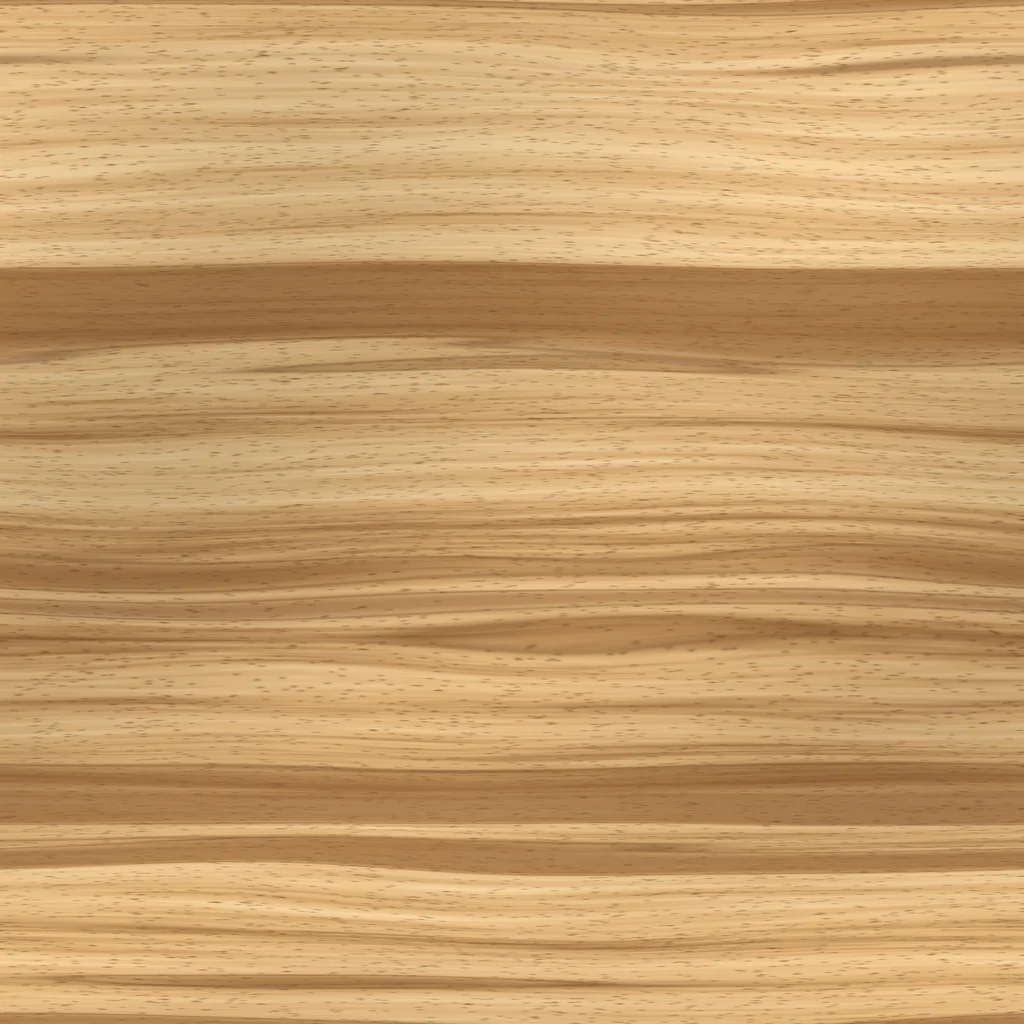
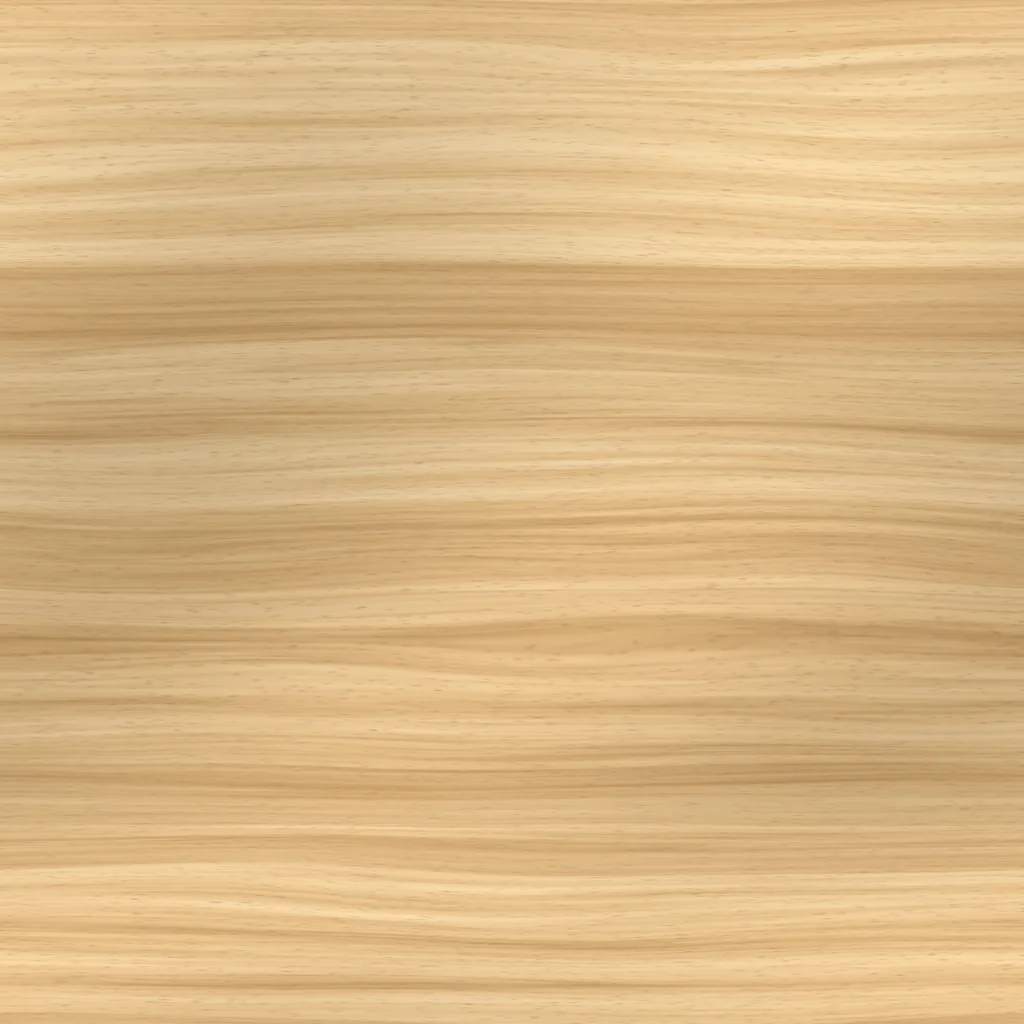
Ludo 2D wood board: lighter wood (no deep browns), a mid-teak frame, softer lines
Claude-Session: https://claude.ai/code/session_019p8B6UWR1udoEs1Nsr5TaD

diff --git a/ludo/board2d.js b/ludo/board2d.js
@@ -68,7 +68,7 @@
   const WOOD = {};
   function woodTex(kind) {
     if (WOOD[kind]) return WOOD[kind];
-    const url = BASE + 'img/wood-' + kind + '.webp?v=1';
+    const url = BASE + 'img/wood-' + kind + '.webp?v=2';
     if (!WOOD['_' + kind] && typeof Image !== 'undefined') {
       WOOD['_' + kind] = 1; const im = new Image();
       im.onload = () => { try { const c = document.createElement('canvas'); c.width = im.naturalWidth; c.height = im.naturalHeight; c.getContext('2d').drawImage(im, 0, 0); WOOD[kind] = c.toDataURL('image/jpeg', .9); } catch (e) {} };
@@ -80,7 +80,7 @@
   /* ---------- designs ---------- */
   const DESIGN = {
     classic: { bg: '#fbf7ec', line: '#3b3326', frame: '#2a2218' },
-    wood: { bg: '#e0b47a', line: '#4f3015', frame: '#5a3313' },
+    wood: { bg: '#e0b47a', line: '#6b4524', frame: '#9a6a3e' },
   };
   function drawLudo(dz) {
     const D = DESIGN[dz] || DESIGN.classic, C = COL.ludo, o = [];
@@ -91,7 +91,7 @@
       o.push(`<image href="${fr}" x="-.3" y="-.3" width="15.6" height="15.6" preserveAspectRatio="none" clip-path="url(#ldFrC)"/>`);
       o.push(`<rect x="-.3" y="-.3" width="15.6" height="15.6" rx=".5" fill="none" stroke="rgba(0,0,0,.35)" stroke-width=".06"/>`);
       o.push(`<image href="${bd}" x="0" y="0" width="15" height="15" preserveAspectRatio="none"/>`);
-      o.push(`<rect x="0" y="0" width="15" height="15" fill="none" stroke="rgba(30,14,4,.55)" stroke-width=".05"/>`);
+      o.push(`<rect x="0" y="0" width="15" height="15" fill="none" stroke="rgba(60,34,14,.4)" stroke-width=".05"/>`);
     } else {
       o.push(`<rect x="-.3" y="-.3" width="15.6" height="15.6" rx=".5" fill="${D.frame}"/>`);
       o.push(`<rect x="0" y="0" width="15" height="15" fill="${D.bg}"/>`);
@@ -115,7 +115,7 @@
       const start = i % 13 === 0 ? i / 13 : -1;
       const fill = start >= 0 ? C[start][0] : bg;
       o.push(`<rect x="${x}" y="${y}" width="1" height="1" fill="${fill}"${start >= 0 ? PO : ''} stroke="${D.line}" stroke-width=".035"${W ? ' stroke-opacity=".75"' : ''}/>`);
-      if (i % 13 === 8) o.push(star(cx(x), cx(y), .36, W ? '#5a3417' : '#9a8f78'));
+      if (i % 13 === 8) o.push(star(cx(x), cx(y), .36, W ? '#7d5531' : '#9a8f78'));
       if (start >= 0) o.push(arrowIn(cx(x), cx(y), start));
     });
     // home columns
@@ -125,7 +125,7 @@
     tri.forEach(([[ax, ay], [bx, by]], s) => o.push(`<path d="M${ax} ${ay}L${bx} ${by}L7.5 7.5z" fill="${C[s][0]}"${PO} stroke="${D.line}" stroke-width=".035"/>`));
     // the grain through the paint (the same wood, multiplied — the paint is thin), and a soft sheen of the varnish
     if (W) {
-      o.push(`<image href="${woodTex('board')}" x="0" y="0" width="15" height="15" preserveAspectRatio="none" style="mix-blend-mode:multiply" opacity=".28" pointer-events="none"/>`);
+      o.push(`<image href="${woodTex('board')}" x="0" y="0" width="15" height="15" preserveAspectRatio="none" style="mix-blend-mode:multiply" opacity=".2" pointer-events="none"/>`);
       o.push(`<rect x="0" y="0" width="15" height="15" fill="url(#ldVarnish)" pointer-events="none"/>`);
     }
     return o.join('');
@@ -155,7 +155,7 @@
   }
   function drawBoard(rule, design) {
     const n = rule === 'pachisi' ? 19 : 15;
-    const defs = `<defs><radialGradient id="ldSlot" cx=".42" cy=".38" r=".7"><stop offset="0" stop-color="#5a3010" stop-opacity=".08"/><stop offset=".75" stop-color="#4a250a" stop-opacity=".22"/><stop offset="1" stop-color="#2e1504" stop-opacity=".42"/></radialGradient>`
+    const defs = `<defs><radialGradient id="ldSlot" cx=".42" cy=".38" r=".7"><stop offset="0" stop-color="#5a3010" stop-opacity=".08"/><stop offset=".75" stop-color="#5a3412" stop-opacity=".12"/><stop offset="1" stop-color="#4a2a10" stop-opacity=".26"/></radialGradient>`
       + `<linearGradient id="ldVarnish" x1="0" y1="0" x2="1" y2="1"><stop offset="0" stop-color="#fff" stop-opacity=".16"/><stop offset=".45" stop-color="#fff" stop-opacity="0"/><stop offset="1" stop-color="#000" stop-opacity=".08"/></linearGradient></defs>`;
     return { n, svg: defs + (rule === 'pachisi' ? drawPachisi(design) : drawLudo(design)) };
   }

diff --git a/atlas/index.html b/atlas/index.html
@@ -1656,7 +1656,7 @@ html:has(#bv.on,#hist.on,#ov.on,.lvsheet) :is(.updline,#gsSeg),.updline[hidden],
 <script src="models/alquerque.js?v=2"></script>
 <script src="../ludo/engine.js?v=3"></script>
 <script src="../ludo/house.js?v=5"></script>
-<script src="../ludo/board2d.js?v=4"></script>
+<script src="../ludo/board2d.js?v=5"></script>
 <script src="models/ludo.js?v=4"></script>
 <script src="../carrom/engine.js?v=1"></script>
 <script src="models/carrom.js?v=6"></script>

diff --git a/ludo/index.html b/ludo/index.html
@@ -569,7 +569,7 @@ body:is(.in-lesson,.in-puzzle) .side > :is(.lesson-card,.puzzle-card){order:-1}
 <script src="../shared/resign.js?v=3l14"></script>
 <script src="../shared/ruletour.js?v=29l14"></script>
 <script src="engine.js?v=3"></script>
-<script src="board2d.js?v=4"></script>
+<script src="board2d.js?v=5"></script>
 <script src="../shared/coachkit.js?v=16l14"></script>
 <script src="coach.js?v=3"></script>
 <script src="coach-i18n.js?v=1"></script>

diff --git a/ludo/tools/gen_wood.py b/ludo/tools/gen_wood.py
@@ -9,8 +9,8 @@ from scipy.ndimage import gaussian_filter, map_coordinates
 W, H = 1600, 1600
 OUT = os.path.join(os.path.dirname(os.path.abspath(__file__)), '..', 'img')
 DESIGNS = {   # light, mid, dark, pore (RGB)
-    'board': ((238, 206, 156), (214, 172, 116), (150, 102, 58), (108, 68, 34)),
-    'frame': ((150, 104, 68), (108, 70, 44), (52, 32, 20), (28, 16, 9)),
+    'board': ((240, 212, 166), (222, 186, 134), (190, 148, 96), (150, 110, 66)),   # (2026-11-09: no deep browns on the board)
+    'frame': ((184, 134, 88), (156, 108, 66), (118, 78, 44), (84, 54, 30)),   # a mid teak, not near-black
 }
 
 def noise(rng, sy, sx):
@@ -36,13 +36,14 @@ def render(key, seed):
     fib = warp(noise(rng, 0.45, 26)) * 0.5 + warp(noise(rng, 0.7, 70)) * 0.5
     t = np.clip(0.42 + 0.17 * s + 0.07 * fib, 0, 1)
     base = np.where(t[..., None] < 0.5, light + (mid - light) * (t[..., None] / 0.5), mid + (dark - mid) * ((t[..., None] - 0.5) / 0.5))
-    img = base * (1 - 0.72 * band[..., None]) + dark * 0.72 * band[..., None]
+    BW = 0.3 if key == 'board' else 0.45   # the heartwood bands: faint on the light board
+    img = base * (1 - BW * band[..., None]) + dark * BW * band[..., None]
     # thin dark lines along the edges of the heartwood bands (the visible seam)
-    edge = np.exp(-((hw - 0.55) / 0.07) ** 2) * 0.35
+    edge = np.exp(-((hw - 0.55) / 0.07) ** 2) * (0.15 if key == 'board' else 0.35)
     img = img * (1 - edge[..., None]) + pore * edge[..., None]
     # pores: short dashes along the grain
     pr = (rng.random((H, W)) > 0.9962).astype(np.float64)
-    pr = np.clip(warp(gaussian_filter(pr, (0.45, 4.5)) * 10), 0, 1) * 0.6
+    pr = np.clip(warp(gaussian_filter(pr, (0.45, 4.5)) * 10), 0, 1) * (0.35 if key == 'board' else 0.6)
     img = img * (1 - pr[..., None]) + pore * pr[..., None]
     # soft oiled sheen
     sh = noise(rng, 160, 380)

diff --git a/claude/ludo-spec.md b/claude/ludo-spec.md
@@ -123,4 +123,4 @@
 
 ## 6. 未完了
 - オンライン対戦（Firebase の新しいプロジェクトと公開ルールの設定が必要）。
-- 2D盤「木目」（2026-11-09 v3）：本物らしい木の板に色を塗った盤。木の画像 `ludo/img/wood-board.webp`（明るいメープル調）・`wood-frame.webp`（ウォルナットの枠）は `ludo/tools/gen_wood.py`（ファノロナの木目と同じ作り方：木目に沿った長い筋・濃い心材の帯・繊維・導管・オイルのつや）で作る。マスは素の木、陣地は色の帯＋中は木、駒の置き場は浅いくぼみ。色はやや薄く塗り（不透明度0.93）、上から同じ木目を multiply で重ねて塗りの下に木目が見える。線は焼き付けた濃い茶。3D盤のテクスチャ（SVGを画像として描く）用に読み込み後 data: に置き換える。
+- 2D盤「木目」（2026-11-09 v3）：本物らしい木の板に色を塗った盤。木の画像 `ludo/img/wood-board.webp`（明るいメープル調、濃い心材の帯は薄め）・`wood-frame.webp`（中くらいのチーク色の枠。濃い茶・黒に近い色は使わない、2026-11-09）は `ludo/tools/gen_wood.py`（ファノロナの木目と同じ作り方：木目に沿った長い筋・濃い心材の帯・繊維・導管・オイルのつや）で作る。マスは素の木、陣地は色の帯＋中は木、駒の置き場は浅いくぼみ。色はやや薄く塗り（不透明度0.93）、上から同じ木目を multiply で重ねて塗りの下に木目が見える。線は焼き付けた濃い茶。3D盤のテクスチャ（SVGを画像として描く）用に読み込み後 data: に置き換える。
